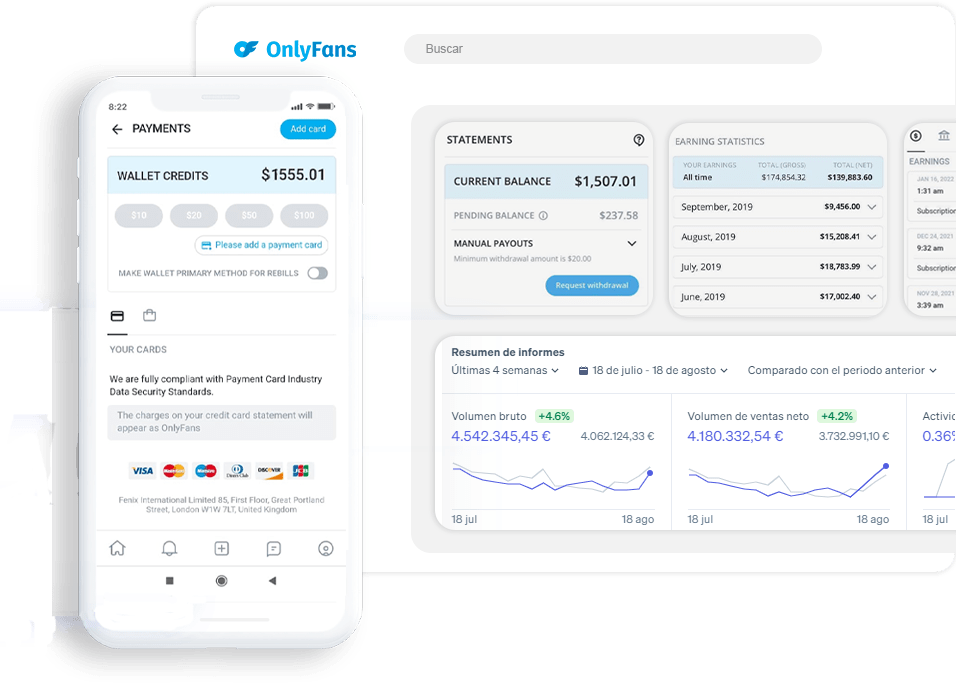
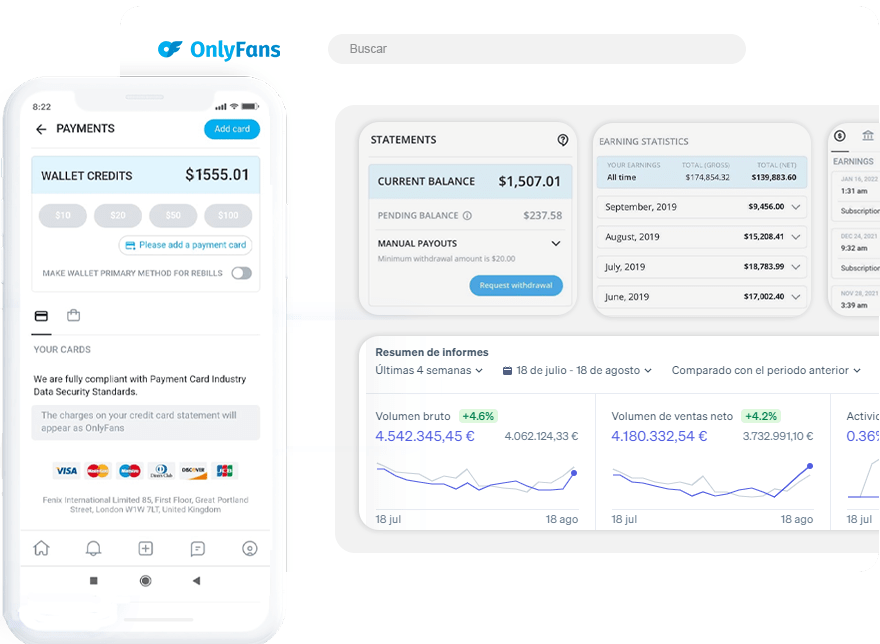
last changes

diff --git a/src/components/hero/Hero.tsx b/src/components/hero/Hero.tsx
@@ -105,13 +105,14 @@ const HeroSection = () => {
           </motion.div>
 
           <motion.div
-            className="w-full xl:w-[100rem] flex justify-center items-center overflow-hidden mt-6 xl:mt-0 pb-10"
+            className="relative w-full xl:w-[100rem] flex justify-center items-center mt-6 xl:mt-0 pb-10 overflow-visible"
             variants={slideLeftToRight}
           >
+            <div className="blur-ellipse top-16 left-36 -translate-x-1/2 -z-10"></div>
             <img
               src="/assets/statistics.png"
               alt="statistics"
-              className="object-cover object-center w-80 md:w-[40rem] xl:w-full h-auto xl:h-full mr-10 pt-4 xl:pt-0"
+              className="object-cover object-center w-80 md:w-[40rem] xl:w-full h-auto xl:h-full mr-10 pt-4 xl:pt-0 z-10"
             />
           </motion.div>
         </motion.div>

diff --git a/src/app/page.tsx b/src/app/page.tsx
@@ -2,7 +2,6 @@ import Statistics from "@/components/statistics/Statistics";
 import Contact from "../components/contact/Contact";
 import Footer from "../components/footer/Footer";
 import Hero from "../components/hero/Hero";
-import Features from "@/components/features/Features";
 import Navbar from "@/components/navbar/Navbar";
 import ChooseExcelence from "@/components/our-work/OurWork";
 import FAQ from "@/components/FAQ/FAQ";

diff --git a/src/app/globals.css b/src/app/globals.css
@@ -214,3 +214,18 @@ body {
     }
   }
 }
+
+@layer utilities {
+  .blur-ellipse {
+    position: absolute;
+    width: 629px;
+    height: 527px;
+    background: linear-gradient(360deg, #00aeef 0%, #020f13 100%);
+    filter: blur(120px);
+    transform: rotate(-70deg);
+    opacity: 0.5;
+    z-index: 0;
+    border-radius: 9999px;
+    pointer-events: none;
+  }
+}

diff --git a/src/components/statistics/Statistics.tsx b/src/components/statistics/Statistics.tsx
@@ -4,7 +4,6 @@ import React from "react";
 import { motion } from "framer-motion";
 import Carousel from "../carousel/Carousel";
 import Link from "next/link";
-import Slider from "../slider/Slider";
 
 // Definimos la animación para todo el bloque
 const slideLeftToRight = {

diff --git a/src/components/our-work/OurWork.tsx b/src/components/our-work/OurWork.tsx
@@ -2,7 +2,6 @@
 
 import React from "react";
 import { motion } from "framer-motion";
-import Carousel from "../carousel/Carousel";
 import Link from "next/link";
 import Slider from "../slider/Slider";
 

diff --git a/src/components/navbar/Navbar.tsx b/src/components/navbar/Navbar.tsx
@@ -3,12 +3,6 @@
 import Link from "next/link";
 import { useEffect, useState } from "react";
 
-interface Route {
-  id: number;
-  label: string;
-  url: string;
-}
-
 const routes = [
   {
     id: 1,
